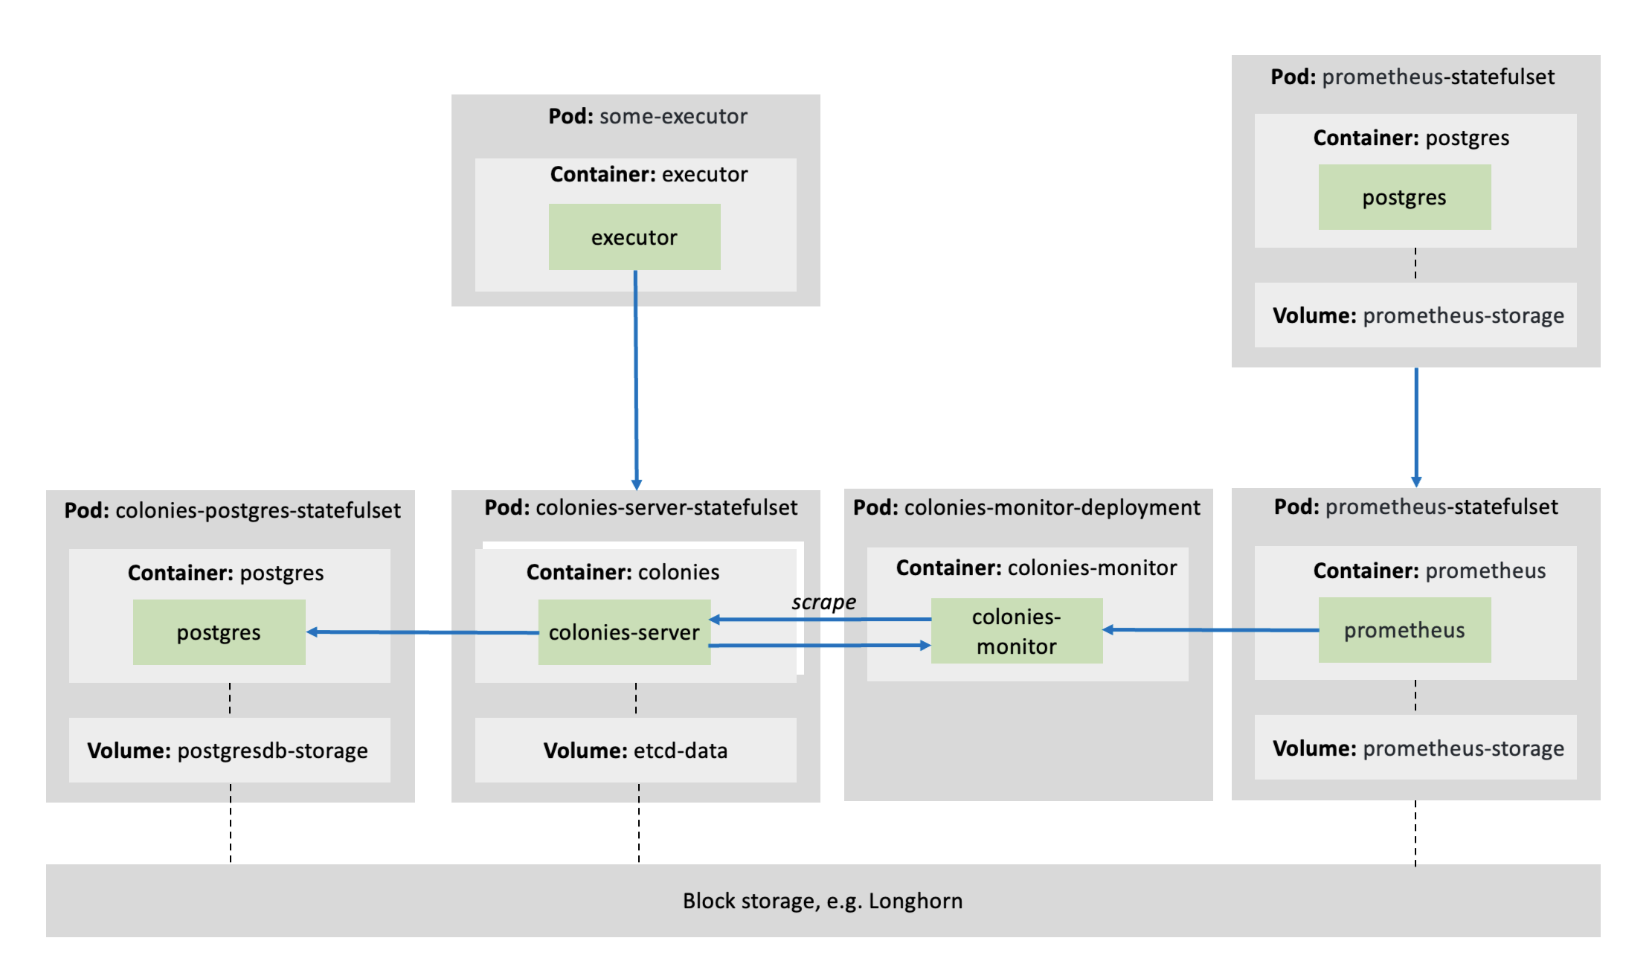
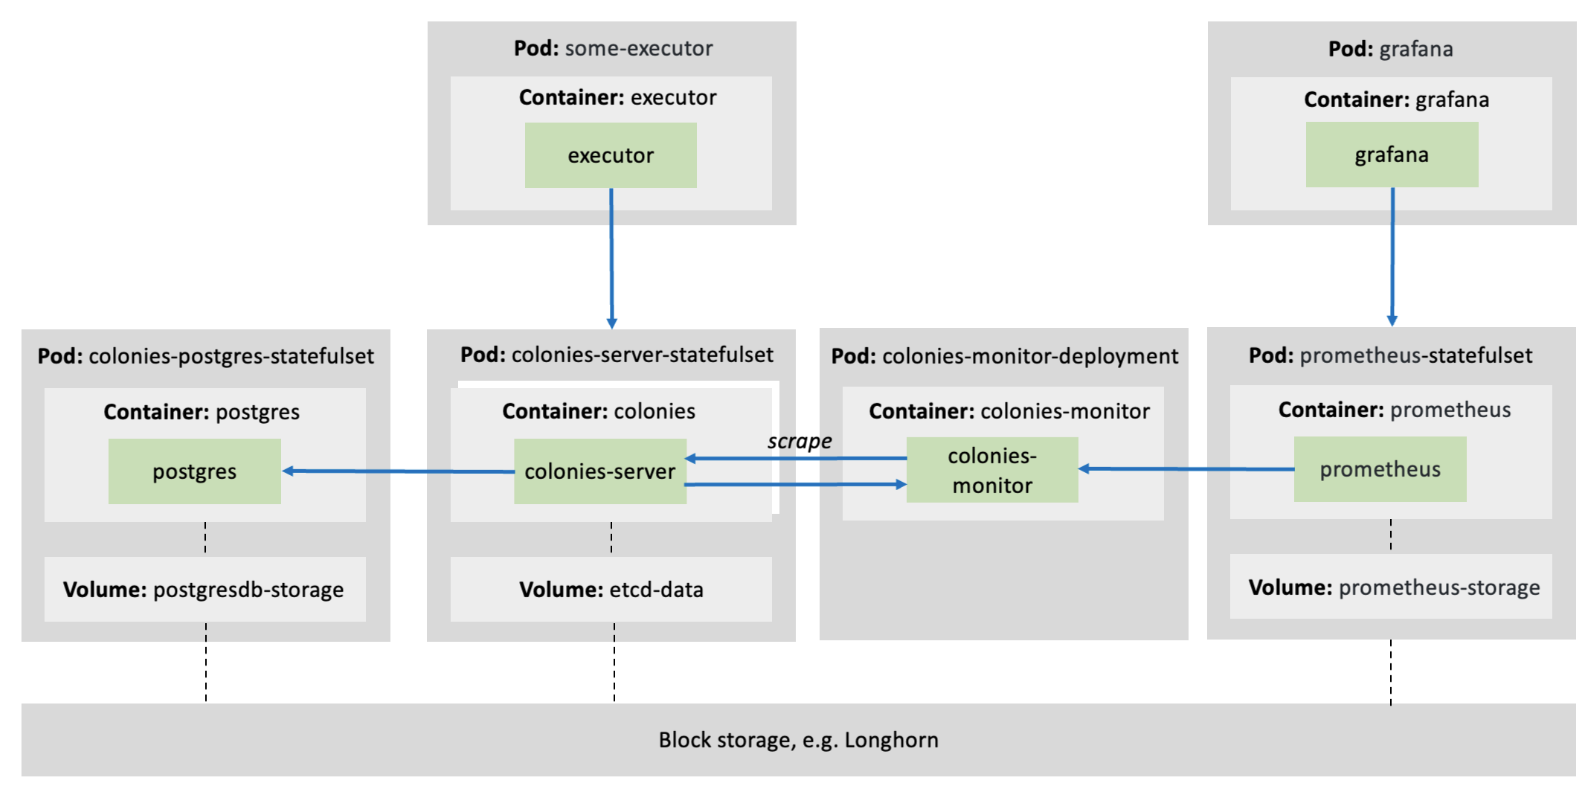
updated readme

Changed region(s): [[0.0, 0.0302, 1.0, 0.8463], [0.0, 0.8766, 1.0, 0.9975]]

diff --git a/colonies/README.md b/colonies/README.md
@@ -1,5 +1,15 @@
 # Introduction
+The Helm chart will deploy several pods, which is illustrated in the figure below.
+
 ![Architecture](images/colonies_k8s.png)
+| Service                 | Purpose                                                                     |
+| ---                     | -----------                                                                 |
+| PostgreSQL              | Used by Colonies server to store states.                                    |
+| Colonies server(s)      | Provides the Colonies API.                                                  |
+| Colonies monitor server | Provider Prometheus metrics. Scrapes the Colonies API.                      |
+| Prometheus              | Connected to the Colonies Monitor server to build up a monitoring database. |
+| Grafana                 | Visualization service.                                                      |
+| Executors               | Various Colonies executors.                                                 |
 
 # Installation
 Edit `values.yaml` and type:
